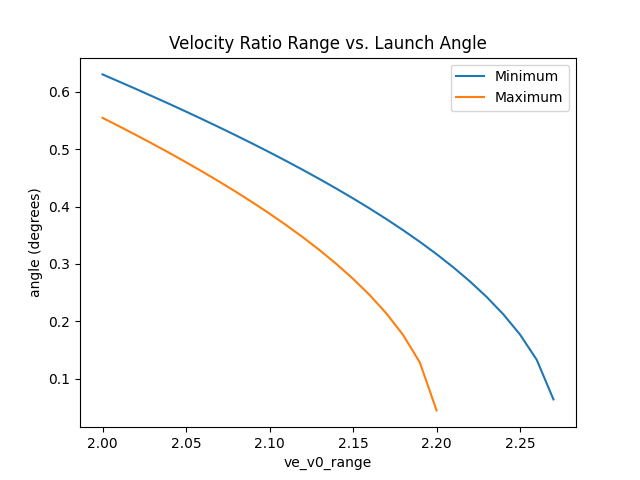
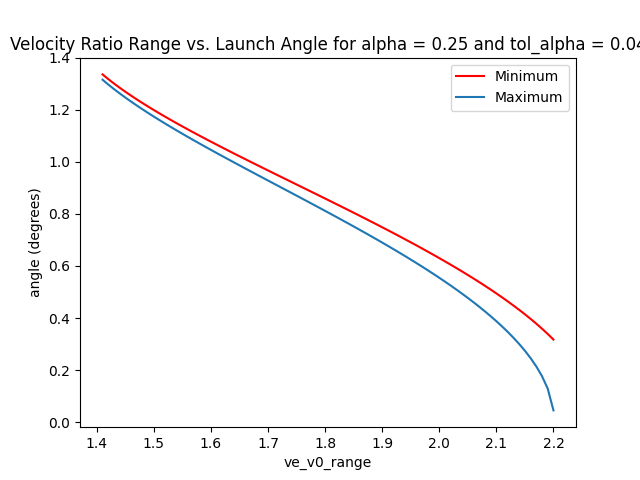
merged plots and driver file, added comments

diff --git a/source/driver.py b/source/driver.py
@@ -1,14 +1,70 @@
 """Driver script for Assignment #1"""
 #F22 GOPH 419 Brandon Karchewski
 #Zachary Gilchrist 10123740
+import matplotlib.pyplot as plt
 
 import rocket
 
 def main():
     """Main function"""
-    print("Hello World!, This is the start of assignment #1")
+    
+    #initialize arrays for first figure
+    min_angles_q3 = []
+    max_angles_q3= []
+    alpha_range= []
+    i=0.05
 
-    print(rocket.launch_angle_range(2.0,0.25,0.02))
+    #iterate through values to get a range of plot values
+    while i <= 0.321:
+        alpha_range.append(i)
+        min_angles_q3.append(rocket.launch_angle_range(2.0,i,0.04)[0])
+        max_angles_q3.append(rocket.launch_angle_range(2.0,i,0.04)[1])
+        i+=0.001
+
+    #initialize arrays for second figure
+    min_angles_q4 = []
+    max_angles_q4= []
+    ve_v0_range = []
+    j=1.41
+
+    #2.23607
+    #iterate through values to get a range of plot values
+    while j <= 2.2:
+        ve_v0_range.append(j)
+        min_angles_q4.append(rocket.launch_angle_range(j,0.25,0.04)[0])
+        max_angles_q4.append(rocket.launch_angle_range(j,0.25,0.04)[1])
+        j+=0.01 
+
+
+    #print(alpha_range)
+    #print(min_angles_q3)
+    #print(max_angles_q3)
+    #print(min_angles_q4)
+    #print(max_angles_q4)
+
+    #plot of alpha_range vs angle
+
+    plt.figure()
+    plt.plot(alpha_range,min_angles_q3,'r',label = 'Minimum')
+    plt.plot(alpha_range,max_angles_q3, label = 'Maximum')
+    plt.xlabel('alpha')
+    plt.ylabel('angle (degrees)')
+    plt.title('Alpha Value vs. Launch Angle for ve_v0 = 2.0 and tol_alpha = 0.04')
+    plt.legend()
+    plt.savefig('alpha_range.png')
+
+    #plot of velocity ratio range vs angle
+
+    plt.figure()
+    plt.plot(ve_v0_range,min_angles_q4, 'r',label = 'Minimum')
+    plt.plot(ve_v0_range,max_angles_q4, label = 'Maximum')
+    plt.xlabel('ve_v0_range')
+    plt.ylabel('angle (degrees)')
+    plt.title('Velocity Ratio Range vs. Launch Angle for alpha = 0.25 and tol_alpha = 0.04')
+    plt.legend()
+    plt.savefig('ve_v0_range.png')
+
+    plt.show()
 
 if __name__ == "__main__":
-    main()
+        main()

diff --git a/source/rocket.py b/source/rocket.py
@@ -20,12 +20,17 @@ def launch_angle_range(ve_v0, alpha, tol_alpha):
     array
         A tuple of min and max launch angles
     """
+    
+    #correct alpha for given tolerances for its min and max threshold
     alpha_min = alpha*(1 - tol_alpha)
     alpha_max = alpha*(1 + tol_alpha)
 
     under_root_min = (1-(alpha_min/(1+alpha_min))*(ve_v0**2)) 
     under_root_max = (1-(alpha_max/(1+alpha_max))*(ve_v0**2))
 
+    assert under_root_max > 0 and under_root_min > 0, "Complex value found, ensure values under the root are positive"
+
+    
     #if under_root_max < 0 or under_root_min < 0:
     #    print(under_root_max)
      #   print(under_root_min)
@@ -39,7 +44,7 @@ def launch_angle_range(ve_v0, alpha, tol_alpha):
     return phi_range
 
 def arcsin(x):
-    """Description of function.
+    """Calculates value of arcsin(x) for a given x value.
     Parameters
     ----------
     x: float
@@ -78,9 +83,19 @@ def arcsin(x):
     return result
 
 def factorial_2n(n):
-    n*=2
-    result = n
-    while n>1:
+    """Helper function for arcsin(x) to find the value of (2n)!
+    Parameters
+    ----------
+    n: int
+        The argument of (2n)!
+    Returns
+    -------
+    int
+        The resultant value of (2n)!
+    """
+    n*=2 #initialize n to be equal to 2n
+    result = n #make initial value equal to n
+    while n>1: #multiply initial n by (n-1) terms repeatably until n reaches 1 to get our result
         result*=(n-1)
         n-=1
     return result
